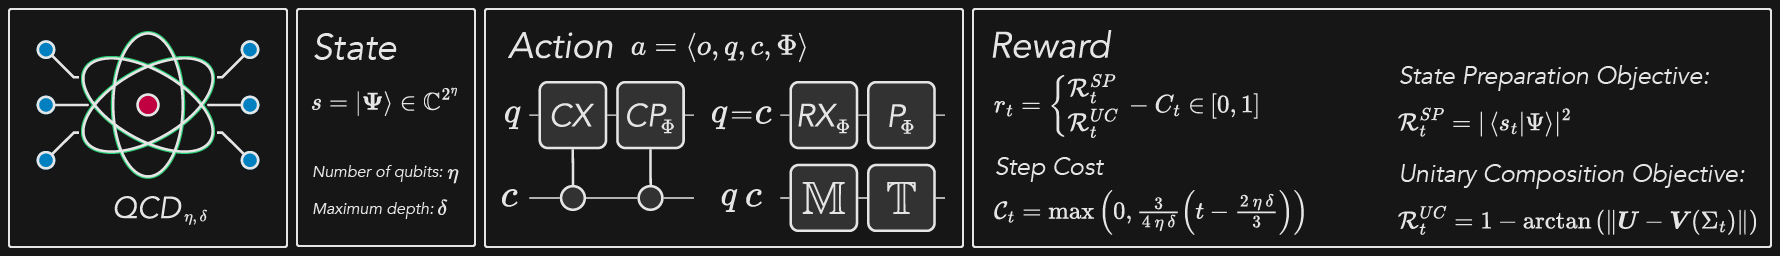
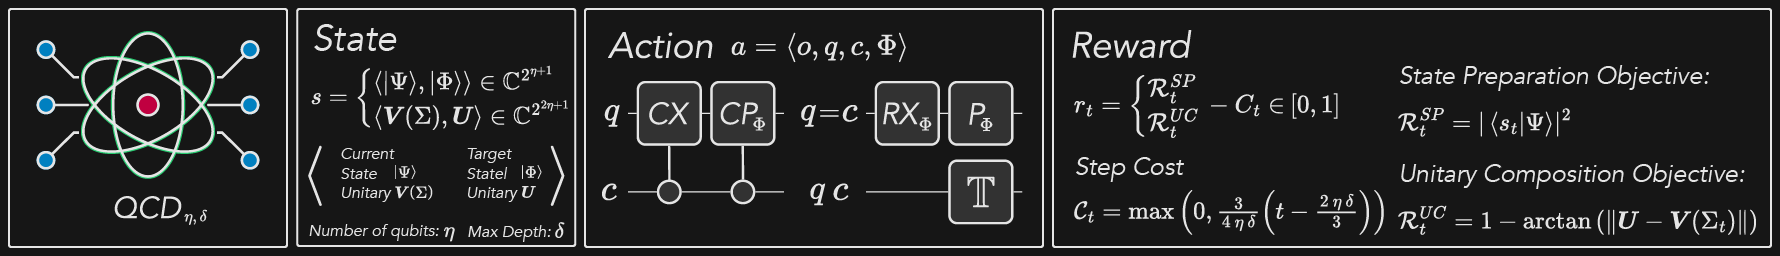
Updated README

diff --git a/README.md b/README.md
@@ -1,12 +1,13 @@
 # Quantum Circuit Designer
 
-[![arXiv](https://img.shields.io/badge/arXiv-2312.11337-b31b1b.svg)](https://arxiv.org/abs/2312.11337)
+<!-- [![AAMAS](https://zenodo.org/badge/doi/10.24963/ijcai.2023/380.svg)](https://doi.org/10.24963/ijcai.2023/380) -->
+<!-- [![arXiv](https://img.shields.io/badge/arXiv-2312.11337-b31b1b.svg)](https://arxiv.org/abs/2312.11337)
 [![PyPI version](https://badge.fury.io/py/qcd-gym.svg)](https://badge.fury.io/py/qcd-gym)
-![alt text](QCD.png)
+![alt text](QCD.png) -->
 
 ## **Description**
 
-This repository contains the Quantum Circuit Designer, a generic [gymnasium](https://github.com/Farama-Foundation/Gymnasium) environment to build quantum circuits gate-by-gate using [pennylane](https://github.com/PennyLaneAI/pennylane), revealing current challenges regarding:
+This repository contains the Quantum Circuit Designer, a generic [gymnasium](https://github.com/Farama-Foundation/Gymnasium) environment to build quantum circuits gate-by-gate using [qiskit](https://github.com/Qiskit/qiskit), revealing current challenges regarding:
 
 - [State Preparation (SP)](#state-preparation): Find a gate sequence that turns some initial state into the target quantum state.
 - [Unitary Composition (UC)](#unitary-composition): Find a gate sequence that constructs an arbitrary quantum operator.
@@ -14,9 +15,9 @@ This repository contains the Quantum Circuit Designer, a generic [gymnasium](htt
 
 ## Observations
 
-The observation is defined by the full complex vector representation of the state of the current circuit: $s = \ket{\boldsymbol{\Psi}}\in\mathbb{C}^{2^\eta}$. 
+The observation is comprised of the state of the current circuit, represented by the full complex vector representation $\ket{\Psi}$ or the unitary operator $\B{V}(\Sigma_t)$ resulting from the current sequence of operations $\Sigma_t$, as well as the intended target. 
 While this information is only available in quantum circuit simulators efficiently (on real hardware, $\mathcal{O}(2^\eta)$ measurements would be needed), it depicts a starting point for RL from which future work should extract a sufficient, efficiently obtainable, subset of information.
-This $2^\eta$-dimensional state representation is sufficient for the definition of an MDP-compliant environment, as operations on this state are required to be reversible. 
+This state representation is sufficient for the definition of an MDP-compliant environment, as operations on this state are required to be reversible. 
 
 ## Actions
 
@@ -33,12 +34,11 @@ The operations $\Gamma$ are defined as:
 
 | o | Operation    | Condition  | Type                 | Arguments  | Comments                      |
 | - | ------------ | ---------- | -------------------- | ---------- | :---------------------------- |
-| 0 | $\mathbb{M}$ |            | Meassurement         | $q$        | Control and Parameter omitted |
-| 1 | $\mathbb{Z}$ | $q = c$    | PhaseShift           | $q,\Phi$   | Control omitted               |
-| 1 | $\mathbb{Z}$ | $q \neq c$ | ControlledPhaseShift | $q,c,\Phi$ | -                             |
-| 2 | $\mathbb{X}$ | $q = c$    | X-Rotation           | $q,\Phi$   | Control omitted               |
-| 2 | $\mathbb{X}$ | $q \neq c$ | CNOT                 | $q,c$      | Parameter omitted             |
-| 3 | $\mathbb{T}$ |            | Terminate            |            | All agruments omitted         |
+| 0 | $\mathbb{Z}$ | $q = c$    | PhaseShift           | $q,\Phi$   | Control omitted               |
+| 0 | $\mathbb{Z}$ | $q \neq c$ | ControlledPhaseShift | $q,c,\Phi$ | -                             |
+| 1 | $\mathbb{X}$ | $q = c$    | X-Rotation           | $q,\Phi$   | Control omitted               |
+| 1 | $\mathbb{X}$ | $q \neq c$ | CNOT                 | $q,c$      | Parameter omitted             |
+| 2 | $\mathbb{T}$ |            | Terminate            |            | All agruments omitted         |
 
 With operations according to the following unversal gate set:
 
@@ -53,13 +53,13 @@ The reward is kept $0$ until the end of an episode is reached (either by truncat
 To incentivize the use of few operations, a step-cost $\mathcal{C}_t$ is applied when exceeding two-thirds of the available operations $\sigma$:
 $$\mathcal{C}_t=\max\left(0,\frac{3}{2\sigma}\left(t-\frac{\sigma}{3}\right)\right)$$
 
-Suitable task reward functions $\mathcal{R}^{\*}\in[0,1]$ are defined, s.t.: $\mathcal{R}=\mathcal{R}^{\*}(s_t,a_t)-C_t$ if $t$ is terminal, according to the following challenges:
+Suitable task reward functions $\mathcal{R}^{\*}\in[0,1]$ are defined, s.t.: $\mathcal{R}=\mathcal{R}^{\*}(s_t,a_t)-C_t$ if $t$ is terminal, according to the following objectives:
 
-## Challenges
+## Objectives
 
 ### **State Preparation**
 
-The objective of this challenge is to construct a quantum circuit that generates a desired quantum state.
+The task of this objective is to construct a quantum circuit that generates a desired quantum state.
 The reward is based on the *fidelity* between the target an the final state:
 $$\mathcal{R}^{SP}(s_t,a_t) = F(s_t, \Psi) = |\braket{\psi_{\text{env}}|\psi_{\text{target}}}|^2 \in [0,1]$$
 Currently, the following states are defined:
@@ -69,33 +69,32 @@ Currently, the following states are defined:
 
 ### **Unitary Composition**
 
-The objective of this challenge is to construct a quantum circuit that implements a desired unitary operation.
+The task of this objective is to construct a quantum circuit that implements a desired unitary operation.
 The reward is based on the ***Frobenius norm*** $D = |U - V(\Sigma_t)|_2$ between the taget unitary $U$ and the final unitary $V$ based on the sequence of operations $\Sigma_t = \langle a_0, \dots, a_t \rangle$: 
 
 $$ R^{UC}(s_t,a_t) = 1 - \arctan (D)$$
 
 <!-- For the reward function, an 1-arctan mapping of the ***Frobenius norm*** $|U_{\text{env}} - U_{\text{target}}|_2$ to the interval $[0,1]$ is chosen.  -->
-The following unitaries are currently available for this challenge:
+The following unitaries are currently available for this objective:
 
 - `'UC-random'` (a random unitary operation on *max_qubits* )
 - `'UC-hadamard'` (the single qubit Hadamard gate)
 - `'UC-toffoli'` (the 3-qubit Toffoli gate)
 
-See [Outlook](#outlook-and-todos) for more challenges to come.
 
 ### *Further Objectives*
 
-The goal of this implementation is to not only construct any circuit that fulfills a specific challenge but to also make this circuit optimal, that is to give the environment further objectives, such as optimizing:
+The goal of this implementation is to not only construct any circuit that fulfills a specific objective but to also make this circuit optimal, that is to give the environment further objectives, such as optimizing:
 
 - Circuit Depth
 - Qubit Count
-- Gate Count (or: 2-qubit Gate Count)
+- Gate Count
 - Parameter Count
 - Qubit-Connectivity
 
 These circuit optimization objectives can be switched on by the parameter `punish` when initializing a new environment.
 
-Currently, the only further objective implemented in this environment is the **circuit depth**, as this is one of the most important features to restrict for NISQ (noisy, intermediate-scale, quantum) devices. This metric already includes gate count and parameter count to some extent. However, further objectives can easily be added within the `Reward` class of this environment (see [Outlook](#outlook)).
+Currently, the only further objective implemented in this environment is the **circuit depth**, as this is one of the most important features to restrict for NISQ (noisy, intermediate-scale, quantum) devices. This metric already includes gate count and parameter count to some extent. However, further objectives can easily be added within the `Reward` class of this environment.
 
 
 ## **Setup**
@@ -111,7 +110,7 @@ The environment can be set up as:
 ```python
 import gymnasium as gym
 
-env = gym.make("CircuitDesigner-v0", max_qubits=2, max_depth=10, challenge='SP-bell', render_mode='text', verbose=True)
+env = gym.make("CircuitDesigner-v0", max_qubits=2, max_depth=10, objective='SP-bell', render_mode='text', verbose=True)
 observation, info = env.reset(seed=42); env.action_space.seed(42)
 
 for _ in range(9):
@@ -128,7 +127,7 @@ The relevant parameters for setting up the environment are:
 | :----------------- | ------ | ------------------------------------------------------------ |
 | max_qubits $\eta$  | `int`  | maximal number of qubits available                           |
 | max_depth $\delta$ | `int`  | maximal circuit depth allowed (= truncation criterion)       |
-| challenge          | `str`  | RL challenge for which the circuit is to be built (see [Challenges](#challenges)) |
+| objective          | `str`  | RL objective for which the circuit is to be built (see [Objectives](#objectives)) |
 | punish             | `bool` | specifier for turning on multi-objectives (see [Further Objectives](#further-objectives)) |
 
 
@@ -141,17 +140,17 @@ git clone https://github.com/philippaltmann/QCD.git
 pip install -e '.[all]'
 ```
 
-Specify the intended \<Challenge\> as: "`challenge`-q`max_qubits`-d`max_depth`":
+Specify the intended \<Task\> as: "`objective`-q`max_qubits`-d`max_depth`":
 
 ```sh
-# Run a specific algoritm and challenge (requires `pip install -e '.[train]'`)
-python -m train [A2C | PPO | SAC | TD3] -e <Challenge>
+# Run a specific algoritm and task (requires `pip install -e '.[train]'`)
+python -m train [A2C | PPO | SAC | TD3] -e <Task>
 
-# Generate plots from the `results` folder (requires `pip install -e '.[plot]'`)
-python -m plot results
+# Generate plots from the `results` folder (requires `pip install -e '.[plot]'`) 
+python -m plot results -b # plot all runs in `results`, add random and evo baselines
 
 # To train the provided baseline algorithms, use (pip install -e .[all])
-./run
+./run.sh
 
 # Test the circuit designer (requires `pip install -e '.[test]'`)
 python -m circuit_designer.test
@@ -159,7 +158,7 @@ python -m circuit_designer.test
 
 ## Results 
 
-![alt text](Results.png)
+![Preliminary Results](Results.png)
 
 
 ## Acknowledgements
